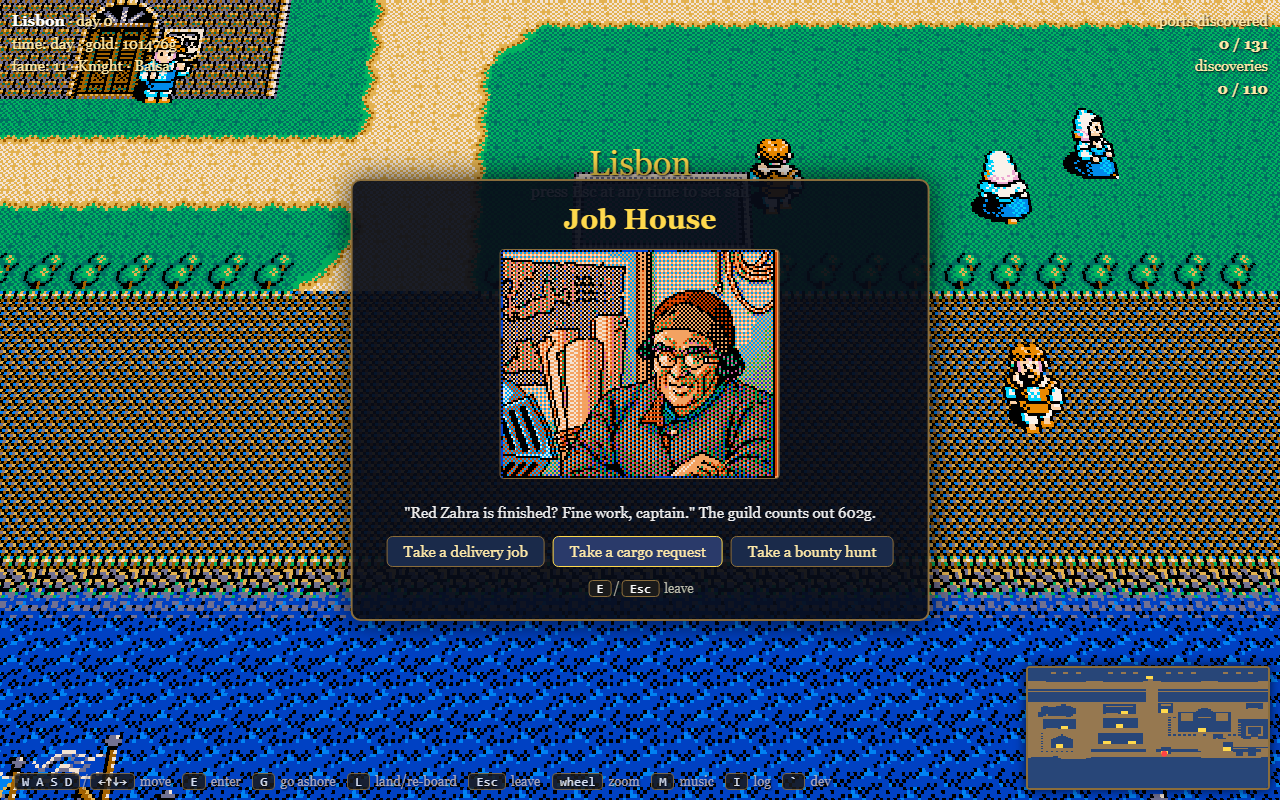
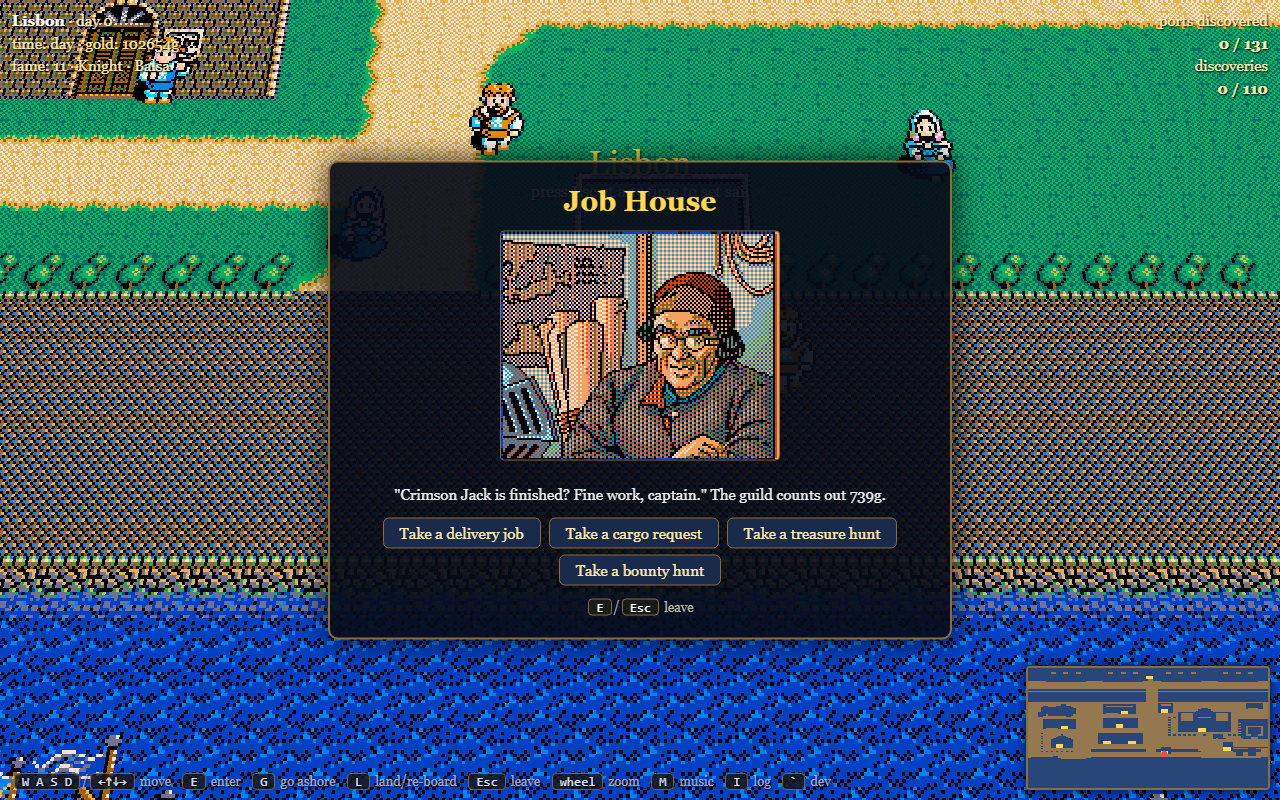
Treasure hunt quests at the job house
- 4th quest type: treasure map with remote coords; sail there and press
  E to dig (gold + fame, chance of goods); 50% guarded by a pirate
- bump main.js version

Changed region(s): [[0.2188, 0.0938, 0.875, 0.8438], [0.0938, 0.0312, 0.1562, 0.0625]]

diff --git a/game/main.js b/game/main.js
@@ -1787,6 +1787,10 @@ function buildingMenu(b) {
         ];
         return [{ label: `Bring ${q.qty} ${q.good} (have ${have}) — reward ${q.reward}g`, disabled: true, action() {} }];
       }
+      if (q?.type === 'treasure') {
+        return [{ label: `Treasure map: dig at ${fmtLonLat(q.x, q.z)}${q.done ? ' (done)' : ''}`,
+                  disabled: true, action() {} }];
+      }
       if (q?.type === 'bounty') {
         if (q.done) return [
           { label: `Collect the bounty (+${q.reward}g)`, action() {
@@ -1823,6 +1827,22 @@ function buildingMenu(b) {
           P.jobQuest = { type: 'cargo', good, qty, reward };
           setBuildingText(`The guild needs <b>${qty} ${good}</b> — goods we can't get here. ` +
             `Bring them back to this job house. Reward: <b>${reward}g</b>.`);
+        } },
+        { label: 'Take a treasure hunt', action() {
+          // a remote spot on the map (60-240 tiles away)
+          let x = 0, z = 0;
+          for (let tries = 0; tries < 40; tries++) {
+            const ang = Math.random() * Math.PI * 2;
+            const dist = 60 + Math.random() * 180;
+            x = Math.round(here.x + Math.cos(ang) * dist);
+            z = Math.round(here.y + Math.sin(ang) * dist);
+            if (x > 5 && x < COLS - 5 && z > 5 && z < ROWS - 5) break;
+          }
+          const gold = Math.round((800 + Math.random() * 1200) * (1 + P.fame * 0.02));
+          P.jobQuest = { type: 'treasure', x, z, gold, guarded: Math.random() < 0.5, done: false };
+          setBuildingText(`An old map surfaces in the guild archives — <b>${fmtLonLat(x, z)}</b>. ` +
+            `The guild's cut is already taken. Dig there, captain.` +
+            (P.jobQuest.guarded ? ' <i>Rumor says someone is watching it…</i>' : ''));
         } },
         { label: 'Take a bounty hunt', action() {
           const ang = Math.random() * Math.PI * 2;
@@ -2468,6 +2488,10 @@ const MENU_RENDER = {
       const q = P.jobQuest;
       html += `<p><b>Cargo request (job house)</b>: bring <b>${q.qty} ${q.good}</b> ` +
               `(have ${P.cargo[q.good] ?? 0}). Reward: ${q.reward}g</p>`;
+    } else if (P.jobQuest?.type === 'treasure') {
+      const q = P.jobQuest;
+      html += `<p><b>Treasure hunt (job house)</b>: dig at <b>${fmtLonLat(q.x, q.z)}</b>` +
+              `${q.guarded ? ' (guarded!)' : ''}. Est. ${q.gold}g</p>`;
     } else if (P.jobQuest?.type === 'bounty') {
       const q = P.jobQuest;
       html += `<p><b>Bounty (job house)</b>: ${q.done ? 'COLLECT READY — ' : ''}sink <b>${q.name}</b> ` +
@@ -2637,6 +2661,23 @@ function fireCannon() {
   if (shipPos.distanceTo(battle.enemy.pos) > 10) return;
   battle.cd = 2;
   fireBall(shipPos, battle.enemy.pos, battleDmg(), true);
+}
+
+function digTreasure(q) {
+  q.done = true;
+  P.gold += q.gold;
+  P.fame += 3;
+  let extra = '';
+  if (Math.random() < 0.5 && cargoSpace() >= 5) {
+    const names = Object.keys(goodsData.regions['Iberia']?.prices ?? {});
+    const good = names[Math.floor(Math.random() * names.length)];
+    P.cargo[good] = (P.cargo[good] ?? 0) + 5;
+    extra = ` and 5 ${good}`;
+  }
+  save();
+  playSfx('./assets/sounds/discover.ogg');
+  showBanner(`Treasure found!<small>${q.gold}g${extra} · fame +3</small>`);
+  P.jobQuest = null;
 }
 
 function markBountyDone(p) {
@@ -3003,6 +3044,12 @@ function onUseKey() {
     if (npc) { npcDialog(npc); return; }
   }
   if (scene === 'sea') {
+    const q = P.jobQuest;
+    if (q?.type === 'treasure' && !q.done && !battle &&
+        Math.hypot(q.x - shipPos.x, q.z - shipPos.z) < 3) {
+      digTreasure(q);
+      return;
+    }
     const p = nearestPort();
     if (p) enterPort(p.id);
   } else if (inBuilding) {
@@ -3434,10 +3481,25 @@ function tick() {
     camera.position.set(shipPos.x, camDist * Math.cos(CAM_TILT), shipPos.z + camDist * Math.sin(CAM_TILT));
     camera.lookAt(shipPos.x, 0, shipPos.z);
 
+    // --- treasure quest: guardian spawns at the site ---
+    {
+      const q = P.jobQuest;
+      if (q?.type === 'treasure' && q.guarded && !q.done && !battle &&
+          !pirates.some(p => p.bountyName === 'treasure guard') &&
+          Math.hypot(q.x - shipPos.x, q.z - shipPos.z) < 15) {
+        spawnPirate(q.x + 1, q.z + 1, PIRATE_SHIPS[Math.floor(Math.random() * PIRATE_SHIPS.length)],
+                    'treasure guard');
+      }
+    }
+
     // --- hints: boarding / nearby port / village ---
     const p = battle ? null : nearestPort();
     const v = p || battle ? null : nearestVillage();
-    showHint(canBoard() ? `<span class="key">B</span> board them — melee fight!`
+    const tq = P.jobQuest;
+    const nearTreasure = !battle && tq?.type === 'treasure' && !tq.done &&
+                         Math.hypot(tq.x - shipPos.x, tq.z - shipPos.z) < 3;
+    showHint(nearTreasure ? `<span class="key">E</span> dig for treasure!`
+             : canBoard() ? `<span class="key">B</span> board them — melee fight!`
              : p ? `<span class="key">E</span> enter ${p.name}`
              : v ? `<span class="key">G</span> go ashore — something seems interesting here`
              : null);

diff --git a/game/index.html b/game/index.html
@@ -330,6 +330,6 @@
 <script type="importmap">
   { "imports": { "three": "./lib/three.module.js" } }
 </script>
-<script type="module" src="./main.js?v=20260730"></script>
+<script type="module" src="./main.js?v=20260731"></script>
 </body>
 </html>